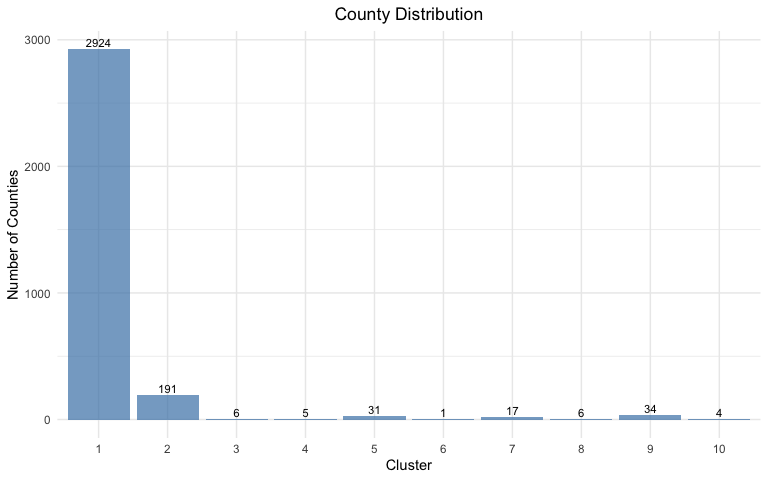
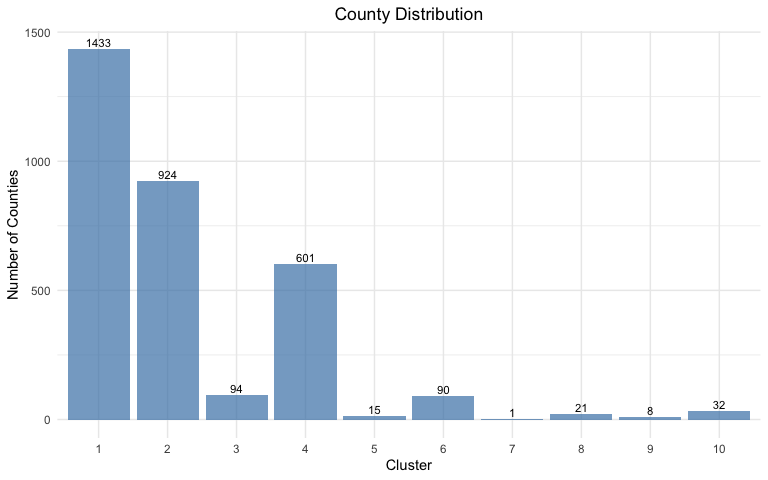
modified logit analysis

diff --git a/R/02_machine_learning_analysis.md b/R/02_machine_learning_analysis.md
@@ -108,14 +108,9 @@ principal component are:
 
 Poverty, ChildPoverty, Employed
 
-Several features have negative values in the first principal component,
-including
+![](02_machine_learning_analysis_files/figure-gfm/unnamed-chunk-9-1.png)<!-- -->
 
-Minority, Poverty, ChildPoverty, Service, Office, Production, Drive,
-Carpool, OtherTransp, MeanCommute, Unemployment
-
-![](02_machine_learning_analysis_files/figure-gfm/unnamed-chunk-10-1.png)<!-- -->
-\### PC1 Loading Analysis
+### PC1 Loading Analysis
 
 Looking at the PC1 loadings, several key pairs of features have opposite
 signs:
@@ -252,7 +247,7 @@ and 10 have only 1 and 4 counties, respectively, indicating that the
 clustering algorithm identified a few very distinct groups among the
 counties.
 
-![](02_machine_learning_analysis_files/figure-gfm/unnamed-chunk-17-1.png)<!-- -->
+![](02_machine_learning_analysis_files/figure-gfm/unnamed-chunk-16-1.png)<!-- -->
 
 ### Second Clustering (First Two Principal Components):
 
@@ -262,7 +257,7 @@ pc.county. Cluster 1 contains 1433 counties, cluster 2 has 924 counties,
 and Cluster 4 has 601 counties. The remaining clusters have fewer
 counties, but the distribution differs from the first clustering.
 
-![](02_machine_learning_analysis_files/figure-gfm/unnamed-chunk-19-1.png)<!-- -->
+![](02_machine_learning_analysis_files/figure-gfm/unnamed-chunk-18-1.png)<!-- -->
 
 What can we take out of this
 
@@ -346,76 +341,237 @@ colnames(records) = c("train.error","test.error")
 rownames(records) = c("Decision Tree","Logistic Regression","Lasso Logistic Regression","Random Forest","Neural Network", "Neural Network Optimized")
 ```
 
-**15. Decision tree: (2 pts) train a decision tree by cv.tree().** (2
-pts) Prune tree to minimize misclassification error. Be sure to use the
-folds from above for cross-validation. (2 pts) Visualize the trees
-before and after pruning. (1 pts) Save training and test errors to
-records object. (2 pts) Interpret and discuss the results of the
-decision tree analysis. (2 pts) Use this plot to tell a story about
-voting behavior.
+## Decision Tree Analysis
 
-Decision Tree purity
+In this analysis, we’ll build a decision tree classifier to predict
+county-level voting patterns in the 2020 election. Decision trees are
+especially useful for understanding complex data relationships because
+they create interpretable rules that reflect human decision-making
+processes. We’ll begin by training a full decision tree on our training
+data, then use cross-validation to find the best tree size that
+minimizes misclassification error while preventing overfitting. After
+pruning the tree to this optimal size, we’ll visualize both the original
+and pruned trees to see how the model makes predictions. Finally, we’ll
+evaluate the model’s performance on both training and test sets and
+interpret the decision rules to gain insights into American voting
+behavior and the factors influencing political preferences at the county
+level.
 
-![](02_machine_learning_analysis_files/figure-gfm/unnamed-chunk-25-1.png)<!-- -->
+### Building the Initial Tree
 
-From our function `cv.tree()`, the best size is 6.
+First, we train a decision tree using all available predictors:
 
-![](02_machine_learning_analysis_files/figure-gfm/unnamed-chunk-27-1.png)<!-- -->
+![](02_machine_learning_analysis_files/figure-gfm/unnamed-chunk-24-1.png)<!-- -->
 
-![](02_machine_learning_analysis_files/figure-gfm/unnamed-chunk-29-1.png)<!-- -->
+### Cross-Validation and Pruning
 
-**Both trees have Transit first followed by White and Women. Before
-pruning, White was right below Women, but in after pruning, White is at
-the very bottom of Women. Minority is still at the same place. In after
-pruning, Professional is not in the White split, but Professional is
-still in the Women split. Women is absent in the White split. Men is
-also absent in the White split.**
+We use cross-validation to find the optimal tree size that minimizes
+misclassification error:
 
-**It seems White was a big contributing factor if you were going to vote
-for Trump, while it seems Women was a big contributing factor if you
-were going to vote for Biden.**
+Cross-validation suggests the optimal tree size is r best_size_min
+nodes.
+
+![](02_machine_learning_analysis_files/figure-gfm/unnamed-chunk-26-1.png)<!-- -->
+
+### Pruned Tree
+
+We prune the tree to the optimal size and visualize the result:
+
+![](02_machine_learning_analysis_files/figure-gfm/unnamed-chunk-28-1.png)<!-- -->
+
+## Decision Tree Analysis: A Story of American Voting Patterns
+
+This decision tree provides fascinating insights into county-level
+voting patterns in the 2020 election, offering a clear overview of the
+different types of American communities.
+
+### The Primary Divide: Transit Usage
+
+The tree’s **root split on Transit \> 1.05%** immediately divides
+America into two distinct worlds.
+
+- **Left branch (Transit ≤ 1.05%)**: Rural and suburban areas in America
+  with limited public transit.
+- **Right branch (Transit \> 1.05%)**: More urban areas with public
+  transit.
+
+This indicates that **urbanization level** (measured by transit usage)
+was the most predictive factor for voting behavior.
+
+### Rural/Suburban America Story (Left Branch)
+
+In low-transit areas, the tree tells a nuanced story:
+
+**1. The “White Rural” Pattern (Node 4)**
+
+- Counties with **more than 48.9% White population** → **Donald Trump
+  (1,823 counties, 91.7% accuracy)**
+- This depicts traditional rural America - mostly white, low transit
+  usage.
+- Massive Trump stronghold, the largest single group.
+
+**2. The “Diverse Rural” Pattern**
+
+- Counties with **48.9% or less White population** further divided by
+  unemployment:
+  - **High unemployment (\>7.85%)** → **Joe Biden (Node 3, 102
+    counties)**
+  - **Low unemployment (≤7.85%)** → Further subdivisions on voting-age
+    citizenship
+
+**3. The “Mixed Communities” Pattern (Nodes 1 & 2)**
+
+- In various rural areas with low unemployment, **voting-age
+  citizenship** becomes crucial.
+- **Lower citizenship rates (≤70.3%)** → **Trump (Node 1, 48 counties)**
+- **Higher citizenship rates (\>70.3%)** → **Biden (Node 2, 25
+  counties)**
+
+### Urban America Story (Right Branch)
+
+In higher-transit areas, the pattern is simpler but revealing:
+
+- **Small-medium urban areas (population ≤136K)** → **Trump (Node 5, 202
+  counties)**
+- **Large urban areas (population \>136K)** → **Biden (Node 6, 208
+  counties)**
+
+### Key Voting Behavior Insights
+
+1.  **Geographic Polarization**: The main divide is between urban and
+    rural areas, as indicated by transit usage.
+
+2.  **Racial Demographics Matter**: In rural areas, racial makeup is the
+    second most important factor.
+
+3.  **Economic hardship influences voting for Democrats**: High
+    unemployment in diverse rural areas favors Biden.
+
+4.  **Urban Size Threshold**: There is a critical population size
+    (~136K) at which urban areas switch from Republican to Democratic.
+
+5.  **Immigration Patterns**: In mixed rural communities, areas with
+    more recent immigrants (those with lower voting-age citizenship)
+    tend to support Trump, possibly reflecting concerns about economic
+    competition.
+
+### The Broader Narrative
+
+This tree captures the **“Two Americas”** phenomenon:
+
+- **Rural and small-town America**: Mainly Republican, with exceptions
+  in economically distressed and diverse regions.
+- **Urban America**: Tends to be Democratic in major cities, but smaller
+  urban areas can still lean Republican
+- **The complexity of modern politics**: Even within these broad
+  categories, factors like economic conditions, demographics, and
+  immigration patterns add important nuances.
+
+<!-- -->
 
     ##               
     ## pred.test.tree Donald Trump Joe Biden
     ##   Donald Trump          478        40
     ##   Joe Biden              24        60
 
-**16. (2 pts) Run a logistic regression to predict the winning candidate
-in each county.** (1 pts) Save training and test errors to records
-variable. (1 pts) What are the significant variables? (1 pts) Are they
-consistent with what you saw in decision tree analysis? (2 pts)
-Interpret the meaning of a couple of the significant coefficients in
-terms of a unit change in the variables.
+## Logistic Regression Analysis
 
-For interpretable machine learning
+We’ll now develop a logistic regression model to predict county-level
+voting outcomes and compare its insights with our decision tree
+analysis. Unlike decision trees that generate interpretable rules
+through splits, logistic regression estimates the outcome’s probability
+by modeling the relationship between predictors and the log-odds of
+voting for a specific candidate. This method allows us to measure the
+individual impact of each variable while accounting for all others.
+
+Our analysis will involve fitting the logistic regression model to our
+training data, evaluating its performance on both training and test
+sets, and identifying which variables significantly influence voting
+patterns. We’ll examine both statistical significance (p-values) and
+practical significance (odds ratios) to understand which factors have
+meaningful real-world impact. Finally, we’ll compare these results with
+our decision tree findings to see whether different modeling approaches
+reveal consistent patterns in American voting behavior or highlight
+different aspects of the electoral landscape.
+
+**Coefficient Interpretation:**
+
+    ## VotingAgeCitizen     Unemployment         Employed     Professional 
+    ##            22.70            30.98            32.68            34.84 
+    ##          Service 
+    ##            42.01
+
+Let’s focus on VotingAgeCitizen as a specific example. A 1 percentage
+point increase in VotingAgeCitizen is linked to a 22.70% rise in the
+odds of a county voting for Joe Biden, holding all other variables
+constant. This indicates that counties with higher proportions of
+voting-age citizens tend to favor Democratic candidates.
+
+## Significant Variables
+
+#### P-Value Approach (p \< 0.05)
 
 Using traditional $p < 0.05$ criteria, the significant variables are
 TotalPop, White, VotingAgeCitizen, Professional, Service, Office,
-Production, Drive, Carpool, Employed, PrivateWork, Unemployment. White
-is included, but Women and Minority are not among the top 5. It does
-deviate from the Decision Tree analysis. However, with our large sample
-size (n = 2,408), nearly all non-zero coefficients will appear
-statistically significant, making this criterion less meaningful for
-practical variable selection.
+Production, Drive, Carpool, Employed, PrivateWork, Unemployment.
+Something we need to consider is our large sample size (n = 2,408). With
+our large sample size (n = 2,408), nearly all non-zero coefficients will
+appear statistically significant, making this criterion less meaningful
+for practical variable selection.
+
+### Odds Ratios (\>20% change in odds)
+
+**Why Odds Ratios Over P-Values**: While p-values indicate whether an
+effect is statistically significant, they do not show the **practical
+significance** or **magnitude** of the effect. In large datasets like
+ours, even tiny, practically meaningless effects become statistically
+significant. Odds ratios display the **size** of the effect, helping us
+determine which variables have meaningful real-world impacts on voting
+behavior.
+
+**Understanding Odds Ratios:** An odds ratio indicates the
+multiplicative change in odds with a one-unit increase in the predictor.
+For example, VotingAgeCitizen = 1.2270 means that for each 1 percentage
+point rise in voting-age citizens, the odds of voting for Biden increase
+by 22.70%, assuming all other variables stay the same.
 
     ## VotingAgeCitizen     Professional          Service            Drive 
     ##           1.2270           1.3484           1.4201           0.8182 
     ##         Employed       FamilyWork     Unemployment 
     ##           1.3268           0.5958           1.3098
 
-Below are the significant variables:
+**Important Limitations**: These interpretations assume a ceteris
+paribus (all other variables held constant) approach, which rarely
+occurs in real life. Additionally, logistic regression assumes linear
+relationships between predictors and the log-odds and that observations
+are independent. The model does not account for complex interactions
+between variables that might exist in actual voting behavior.
 
-    ## Unemployment     Employed Professional      Service   FamilyWork 
-    ##       0.2699       0.2827       0.2989       0.3507       0.5178
+### Comparison with Decision Tree Analysis
 
-If we were to increase VotingAgeCitizen by one unit, holding the rest
-fixed, then applying the same logic to Unemployment, Unemployment,
-Employed, Professional, and Service, we would get a percent in the odds:
+**Similarities:** - Both methods identify **White, VotingAgeCitizen, and
+Unemployment** as key predictors. - Both highlight the significance of
+**demographic composition** and **economic conditions** in voting
+behavior. - Both demonstrate that **higher unemployment** generally
+benefits Democratic candidates.
 
-    ## VotingAgeCitizen     Unemployment         Employed     Professional 
-    ##            22.70            30.98            32.68            34.84 
-    ##          Service 
-    ##            42.01
+**Key Differences:** - **Geographic vs. Occupational Focus**: The
+decision tree emphasizes **Transit** (urbanization) as the main split,
+while logistic regression highlights **occupational categories**
+(Professional, Service) as the key predictors. - **Variable Selection**:
+Decision tree uses **TotalPop** for urban classification, but logistic
+regression shows **Service** and **Professional** occupations as more
+influential. - **Interpretability**: The decision tree provides clear
+geographic narratives (urban vs. rural), while logistic regression
+uncovers more detailed occupational and demographic effects.
+
+**General Analysis:** Both methods agree on the crucial role of
+demographic and economic factors in voting behavior, but they highlight
+different aspects. The decision tree’s geographic focus matches the “Two
+Americas” narrative, while logistic regression’s focus on occupational
+factors suggests that **job type** and **economic role** might be even
+more predictive than simple urban-rural geography. This complementary
+view broadens our understanding of American election patterns.
 
 **17. You may notice that you get a warning glm.fit: fitted
 probabilities numerically 0 or 1 occurred.** As we discussed in class,
@@ -507,9 +663,9 @@ the tree method, logistic regression, and the lasso logistic regression?
 
 ![](02_machine_learning_analysis_files/figure-gfm/nn-opt-plot-1.png)<!-- -->
 
-![](02_machine_learning_analysis_files/figure-gfm/unnamed-chunk-41-1.png)<!-- -->
+![](02_machine_learning_analysis_files/figure-gfm/unnamed-chunk-39-1.png)<!-- -->
 
-![](02_machine_learning_analysis_files/figure-gfm/unnamed-chunk-42-1.png)<!-- -->
+![](02_machine_learning_analysis_files/figure-gfm/unnamed-chunk-40-1.png)<!-- -->
 
 **Answer:**
 
